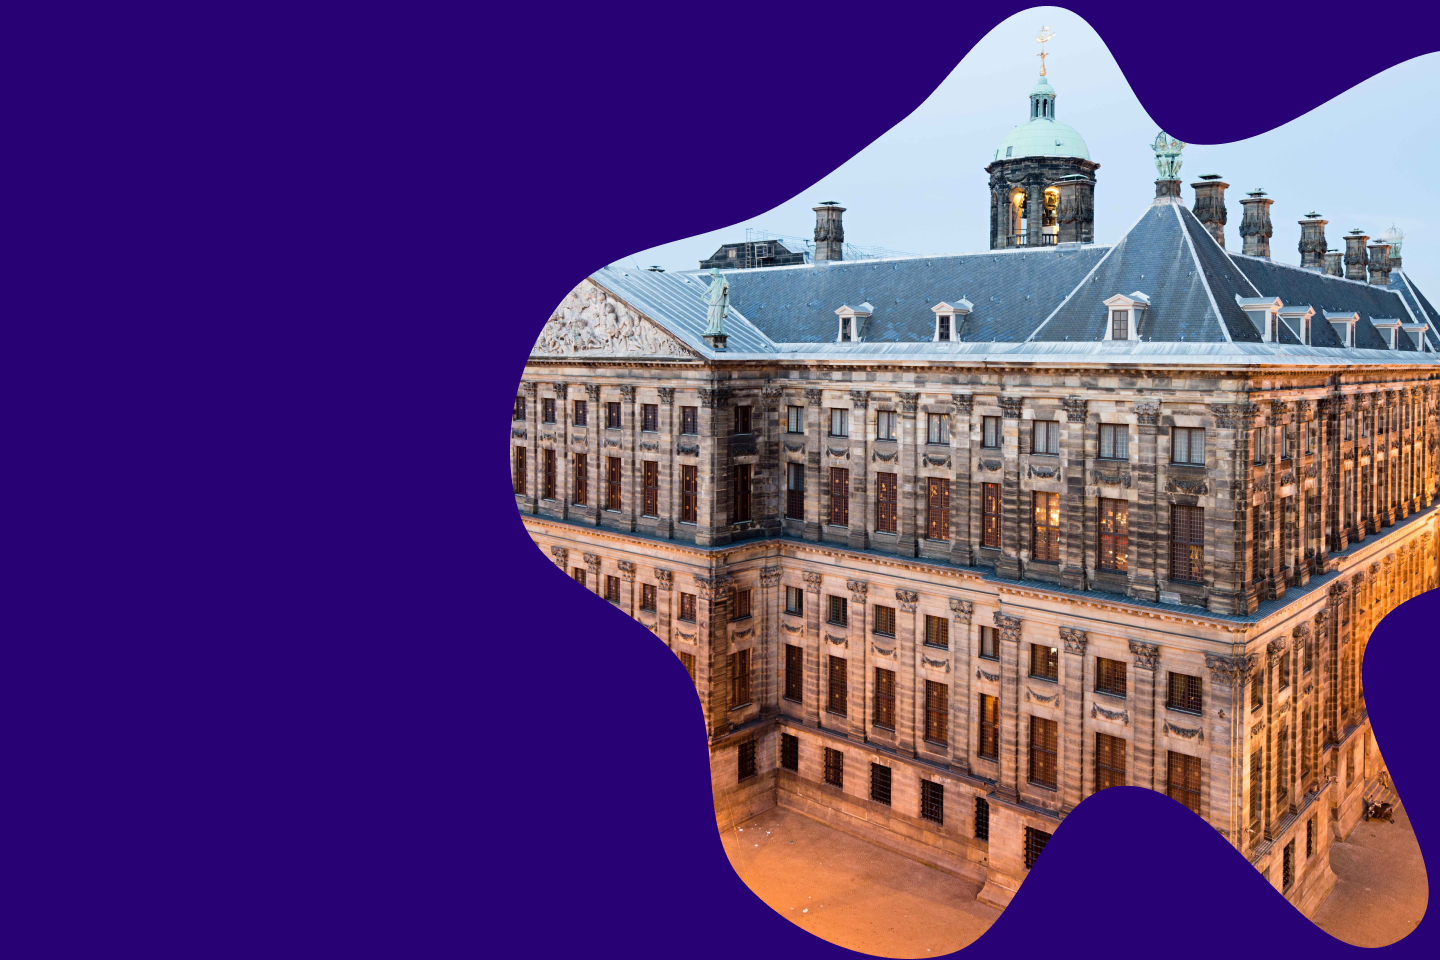
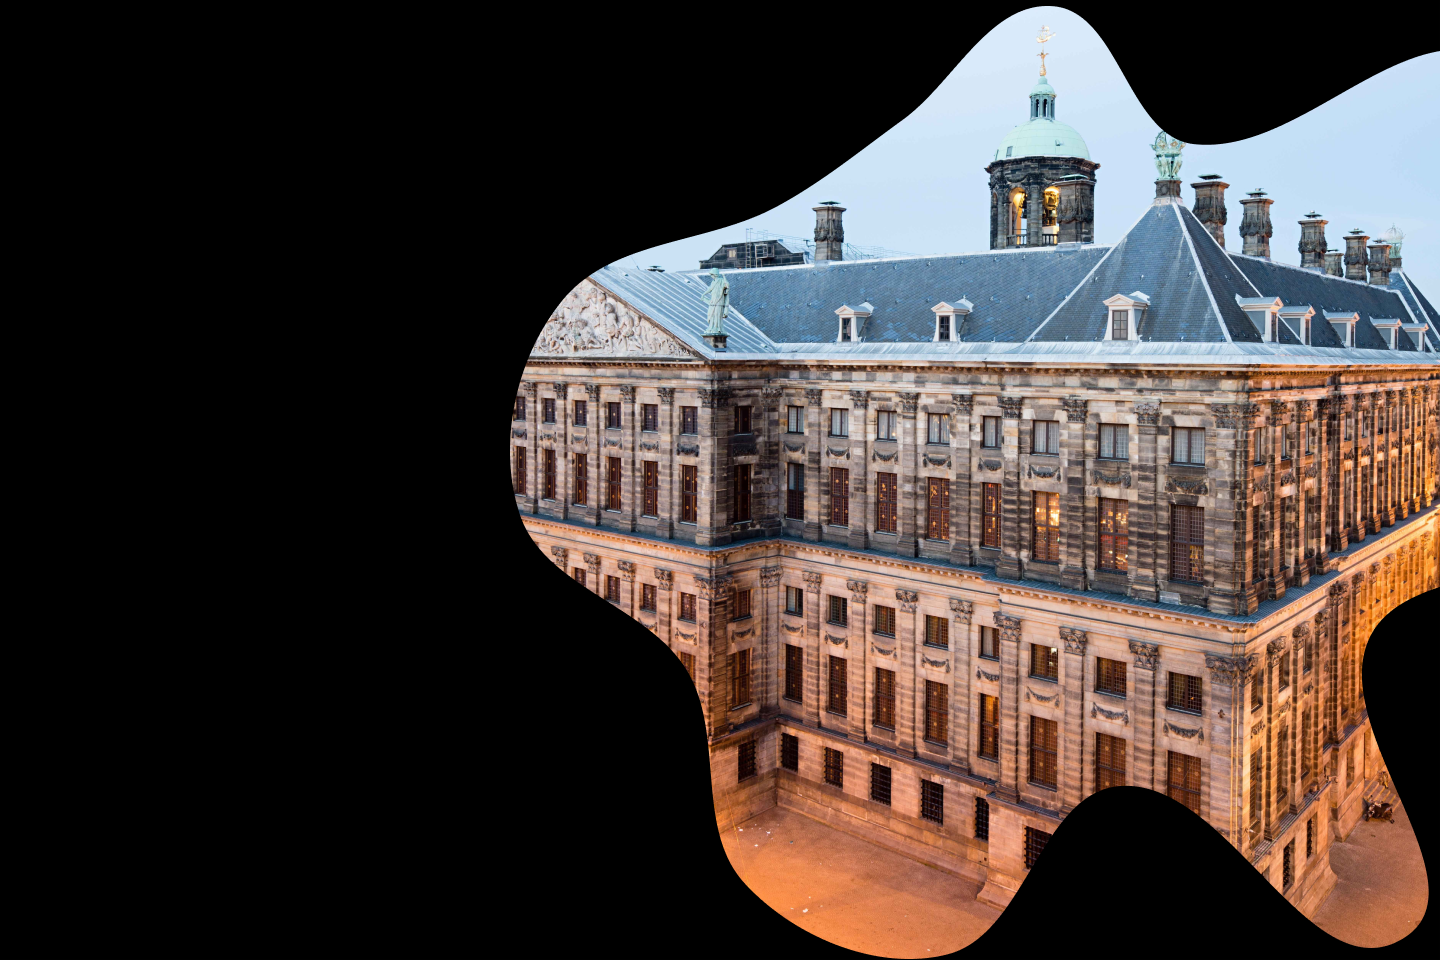
1. I changed the link in the Head button “Learn more” to Amsterdam page. 2. Changed the site color to black 3. Replaced photos for all versions.

diff --git a/css/Amsterdam.css b/css/Amsterdam.css
@@ -1,6 +1,6 @@
 html {
   box-sizing: border-box;
-  background-color: #280274;
+  background-color: #000000;
 }
 
 *,
@@ -62,7 +62,7 @@ h3 {
   flex-direction: column;
   align-items: center;
   padding: 10px 10px;
-  background-color: #280274;
+  background-color: #000000;
 }
 @media screen and (min-width: 900px) {
   .header {
@@ -168,7 +168,7 @@ h3 {
 }
 
 .content .info-btn:hover {
-  color: #280274;
+  color: #000000;
   background: #e9f6ff;
 }
 
@@ -212,7 +212,7 @@ h3 {
 /*Section sights*/
 
 .sights {
-  background-color: #280274;
+  background-color: #000000;
   margin: 0 auto;
   display: flex;
   flex-direction: column;
@@ -243,14 +243,14 @@ h3 {
 
 .card__price {
   text-decoration: none;
-  color: #280274;
+  color: #000000;
   font-size: 24px;
   font-weight: bold;
 }
 
 .card__title {
   text-decoration: none;
-  color: #280274;
+  color: #000000;
   font-size: 18px;
   font-weight: bold;
 }
@@ -271,7 +271,7 @@ h3 {
 
 .btn:hover {
   color: #f0eded;
-  background: #280274;
+  background: #000000;
 }
 
 .btn:active {

diff --git a/pages/amsterdam.html b/pages/amsterdam.html
@@ -35,7 +35,7 @@
         <li><a href="../pages/utrecht.html">Utrecht</a></li>
       </ul>
       <div class="header_button">
-        <a href="https://www.holland.com/global/tourism.htm" target="_blank">
+        <a href="https://www.holland.com/global/tourism/discover-the-netherlands/visit-the-cities/amsterdam.htm" target="_blank">
           <button class="button">Learn more</button></a>
       </div>
     </header>
